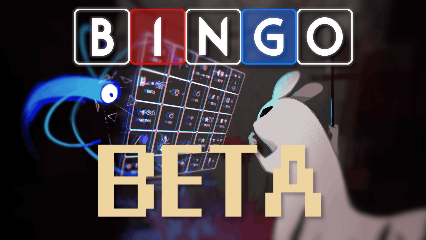
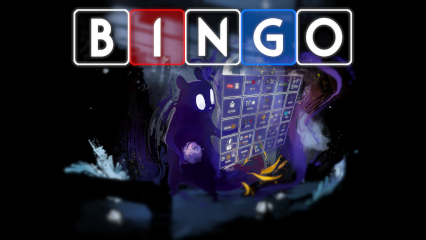
Add sluhvengers cutscene
More defensive checks in places.
Sluhvengers cutscene plays once when entering bingo menu. Holding shift while pressing button on future entries will play it again.

diff --git a/BingoMode/WatcherBingoHooks.cs b/BingoMode/WatcherBingoHooks.cs
@@ -191,6 +191,8 @@ namespace BingoMode
             On.Room.Loaded += Room_Loaded2;
             // Sluhvengers slideshow
             IL.Menu.SlideShow.ctor += SlideShow_ctor1;
+            // Play sluhvengers once on bingo entry
+            On.Menu.MainMenu.ExpeditionButtonPressed += MainMenu_ExpeditionButtonPressed;
             // Shartered terrance st always there not watcher
             On.Watcher.SpinningTopData.FromString += SpinningTopData_FromString;
             // "No" warp fatigue if not watcher
@@ -914,6 +916,26 @@ namespace BingoMode
             }
         }
 
+        private static void MainMenu_ExpeditionButtonPressed(On.Menu.MainMenu.orig_ExpeditionButtonPressed orig, Menu.MainMenu self)
+        {
+            if (!Plugin.PluginInstance.BingoConfig.SluhvengersSeen.Value || Input.GetKey(KeyCode.LeftShift))
+            {
+                ProcessManager pm = self.manager;
+                if (pm.musicPlayer != null)
+                {
+                    pm.musicPlayer.FadeOutAllSongs(60f);
+                }
+                pm.nextSlideshow = BingoEnums.Sluhvengers;
+                pm.RequestMainProcessSwitch(ProcessManager.ProcessID.SlideShow);
+                Plugin.PluginInstance.BingoConfig.SluhvengersSeen.Value = true;
+                Plugin.PluginInstance.BingoConfig._SaveConfigFile();
+            }
+            else
+            {
+                orig(self);
+            }
+        }
+
         // ConvertTime(min, sec, 10s of ms)
         // first value is start time, second is fadein done, third is fadeoutstart
         private static void SlideShow_ctor1(ILContext il)
@@ -1140,7 +1162,7 @@ namespace BingoMode
                 c.Emit(OpCodes.Ldarg_0);
                 c.EmitDelegate<Func<bool, WarpPoint, bool>>((origWarpSequenceInProgress, wp) =>
                 {
-                    if (wp?.room?.game != null)
+                    if (wp.room?.game?.FirstAlivePlayer?.Room != null)
                     {
                         // If the player is landing in a room that is not the warp point room, warp sequence in progress shouldn't matter for sealing
                         if (wp.room.abstractRoom != wp.room.game.FirstAlivePlayer.Room)

diff --git a/BingoMode/Plugin.cs b/BingoMode/Plugin.cs
@@ -53,8 +53,6 @@ namespace BingoMode
             // Auto restart
             On.ModManager.ModApplyer.RequiresRestart += ModApplyer_RequiresRestart;
 
-            //On.Menu.MainMenu.ExpeditionButtonPressed += MainMenu_ExpeditionButtonPressed;
-
             BingoHooks.EarlyApply();
             BingoSaveFile.Apply();
         }
@@ -69,18 +67,6 @@ namespace BingoMode
 
             logger = null;
         }
-
-        //private void MainMenu_ExpeditionButtonPressed(On.Menu.MainMenu.orig_ExpeditionButtonPressed orig, Menu.MainMenu self)
-        //{
-        //    ProcessManager pm = self.manager;
-        //    if (pm.musicPlayer != null)
-        //    {
-        //        pm.musicPlayer.FadeOutAllSongs(120f);
-        //    }
-        //    pm.nextSlideshow = BingoEnums.Sluhvengers;
-        //    pm.RequestMainProcessSwitch(ProcessManager.ProcessID.SlideShow);
-        //    self.PlaySound(SoundID.MENU_Switch_Page_In);
-        //}
 
         public void Update()
         {

diff --git a/BingoMode/BingoModOptions.cs b/BingoMode/BingoModOptions.cs
@@ -24,6 +24,7 @@ namespace BingoMode
         public readonly Configurable<bool> DiscordRichPresence;
         public readonly Configurable<bool> OneToOneSpecBoard;
         public readonly Configurable<bool> Tutorials;
+        public readonly Configurable<bool> SluhvengersSeen;
 
         public readonly Configurable<bool> DialCharged;
         public readonly Configurable<int> DialAmount;
@@ -48,6 +49,7 @@ namespace BingoMode
             DiscordRichPresence = config.Bind<bool>("DiscordRichPresence", true);
             OneToOneSpecBoard = config.Bind<bool>("OneToOneSpecBoard", false);
             Tutorials = config.Bind<bool>("Tutorials", true);
+            SluhvengersSeen = config.Bind<bool>("SluhvengersSeen", false);
 
 
             DialCharged = config.Bind<bool>("DialCharged", false);